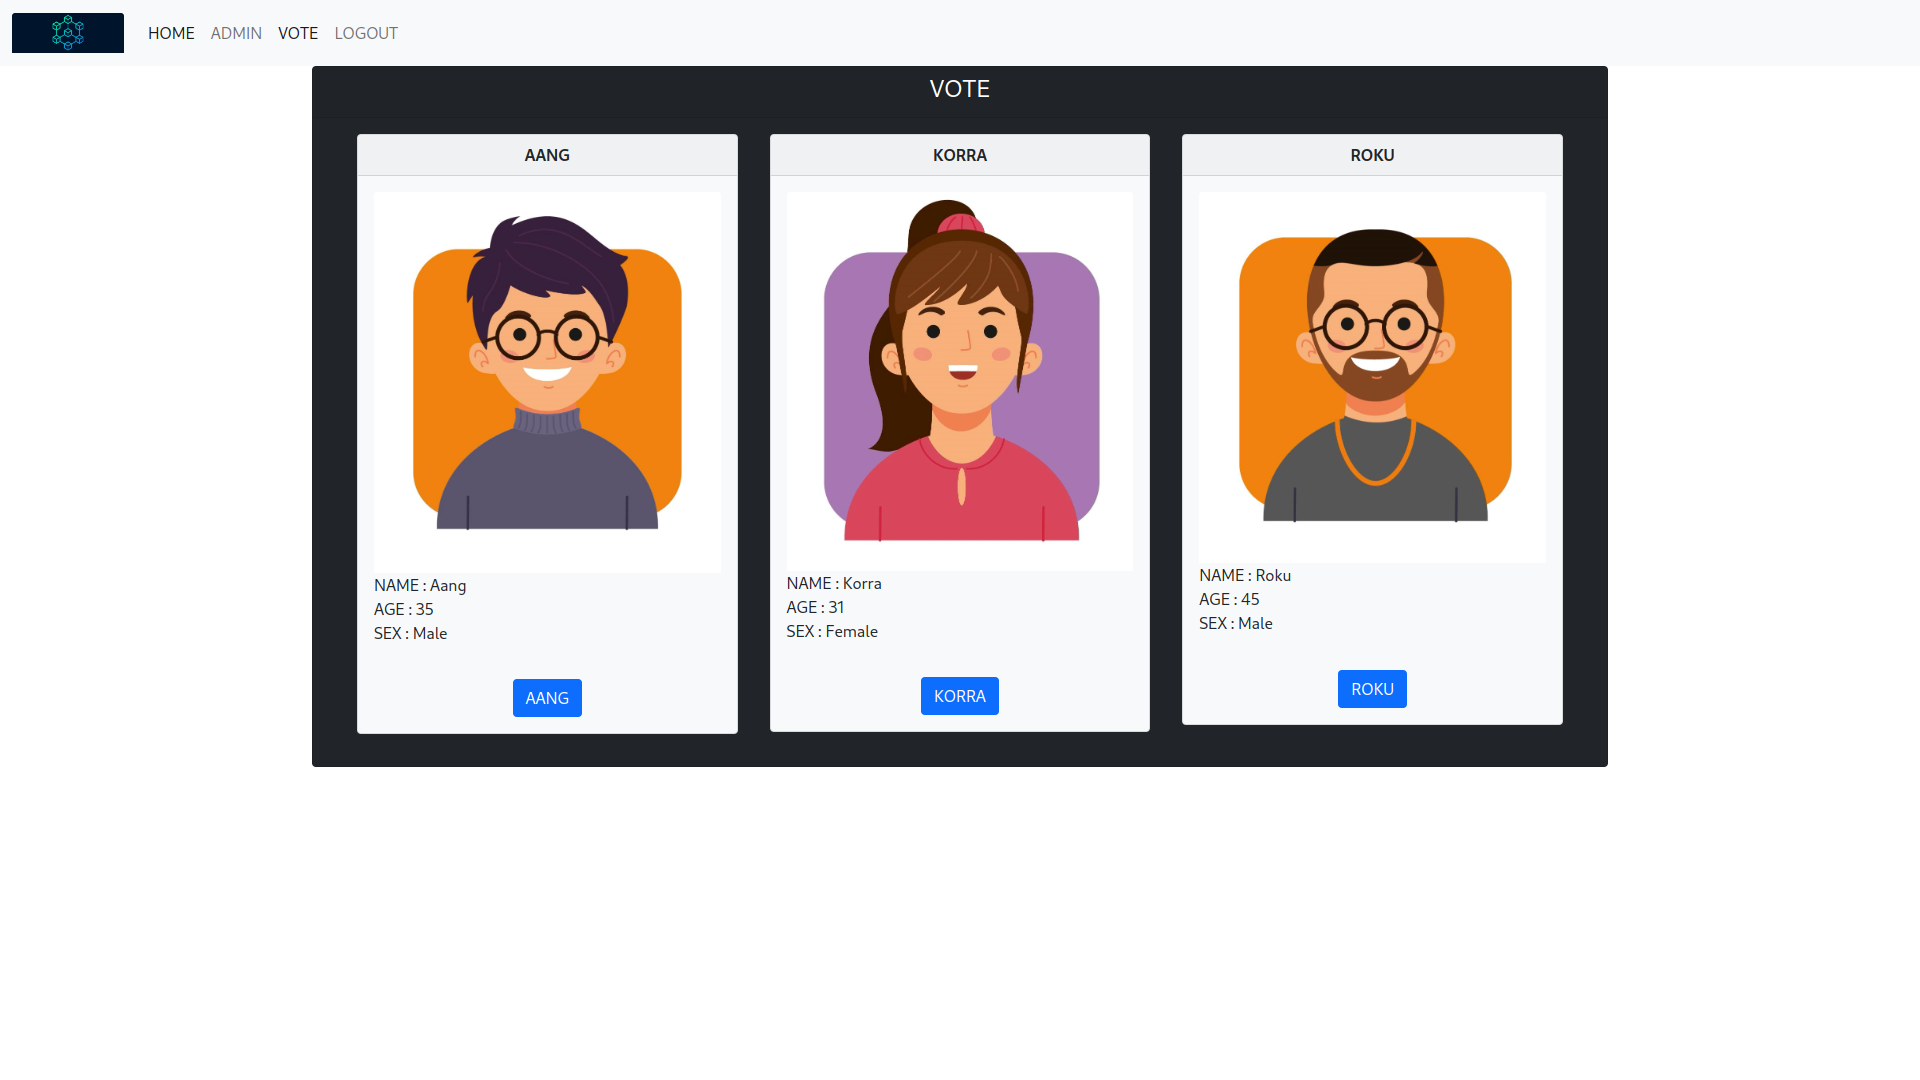
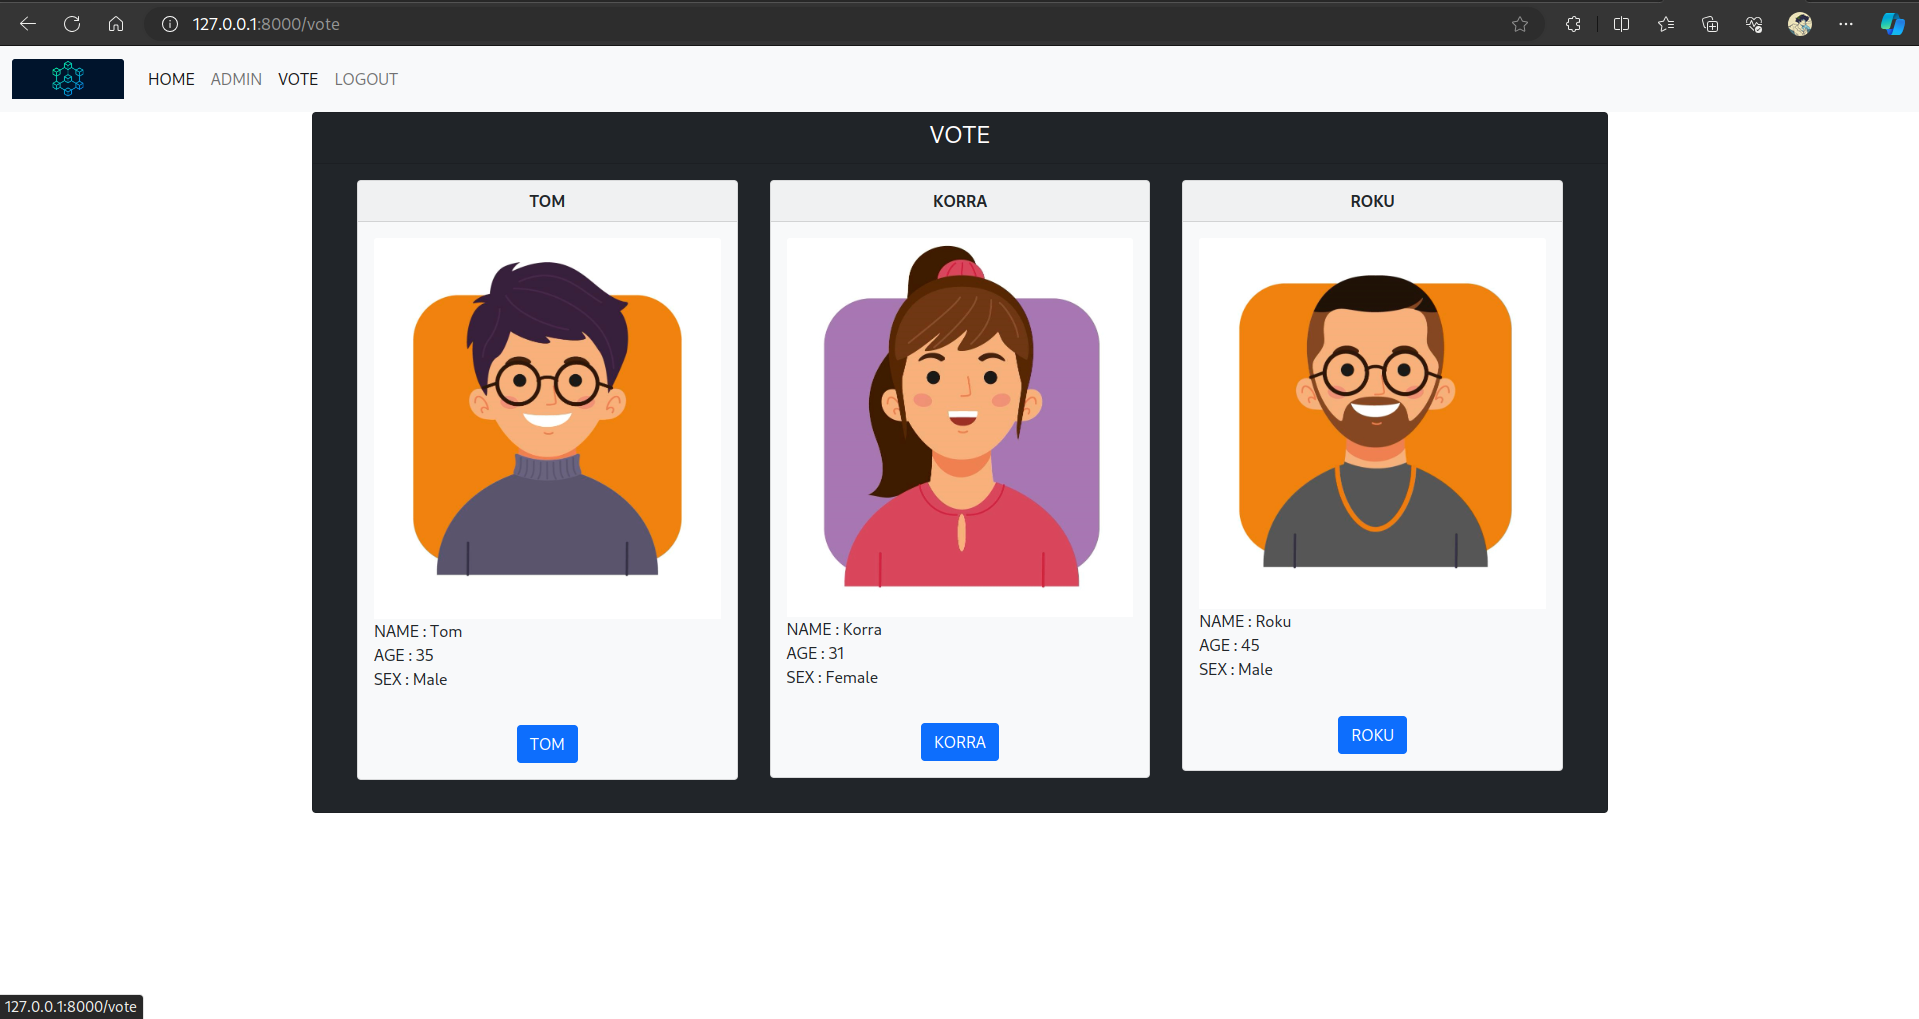
updated

Changed region(s): [[0.0, 0.0, 1.0, 0.8214], [0.0, 0.9735, 0.0922, 1.0]]

diff --git a/templates/vote.html b/templates/vote.html
@@ -18,7 +18,7 @@
 
                           <div class="col-md-4">
                             <div class="card text-dark bg-light mb-3" style="margin-left:1%; margin-right: 1%; max-width: 24rem;">
-                              <div class="card-header"style="text-align: center;"><b> AANG </b></div>
+                              <div class="card-header"style="text-align: center;"><b> TOM </b></div>
                               <div class="card-body">
                                 <img class="card-img-top"  src="\static\1.jpg" alt="Card image cap" >  
                                   <div  style=="text-align: center;">

diff --git a/templates/result.html b/templates/result.html
@@ -23,7 +23,7 @@
                             {% else %}
                                 <div class="card text-dark bg-light mb-3" style="margin-left:1%; margin-right: 1%; max-width: 24rem;">
                             {% endif %}
-                              <div class="card-header"style="text-align: center;"><b> AANG </b></div>
+                              <div class="card-header"style="text-align: center;"><b> TOM </b></div>
                               <div class="card-body">
                                 <img class="card-img-top"  src="\static\1.jpg" alt="Card image cap" >  
                                 

diff --git a/templates/base.html b/templates/base.html
@@ -33,9 +33,8 @@
             <div class="collapse navbar-collapse" id="navbarNavAltMarkup">
                 <div class="navbar-nav">
                     <a class="nav-link active" aria-current="page" href="{{url_for('home')}}"> HOME </a>
-                    <a class="nav-link" href="{{ url_for('admin')}}">ADMIN</a>
                     <a class="nav-link active" href="{{url_for('vote')}}">VOTE</a>
-                    <!-- <a class="nav-link disabled">Disabled</a> -->
+
                     <a class="nav-link" href="{{ url_for('logout') }}">LOGOUT</a>
                 </div>
                 

diff --git a/templates/login.html b/templates/login.html
@@ -30,7 +30,6 @@
             <div class="collapse navbar-collapse" id="navbarNavAltMarkup">
                 <div class="navbar-nav">
                     <a class="nav-link active" aria-current="page" href="{{url_for('home')}}"> LOGIN </a>
-                    <a class="nav-link" href="{{ url_for('admin')}}">ADMIN</a>
                     <!-- <a class="nav-link" href="{{ url_for('register')}}">REGISTER</a> -->
                 </div>
                 

diff --git a/app.py b/app.py
@@ -253,6 +253,7 @@ def home():
     for post in posts:
         vote_check.append(post["voter_id"])
     if user.id in vote_check:
+        logout_user()
         return render_template('abort.html')
     return render_template('home.html')
 
@@ -456,9 +457,10 @@ def vote():
             requests.post(new_tx_address,
                           json=post_object,
                           headers={'Content-type': 'application/json'})
-        
+
         return redirect(url_for('voted'))
     else:
+
         return render_template('vote.html')
 
 
@@ -499,8 +501,8 @@ def adminPortal():
 
     for post in posts:
         vote_gain.append(post["party"])
-    
-    return render_template('result.html', aang=vote_gain.count('AANG'), korra=vote_gain.count('KORRA'), roku=vote_gain.count('ROKU'))
+    print(vote_gain)
+    return render_template('result.html', aang=vote_gain.count('TOM'), korra=vote_gain.count('KORRA'), roku=vote_gain.count('ROKU'))
         
 
 if __name__ == "__main__":
